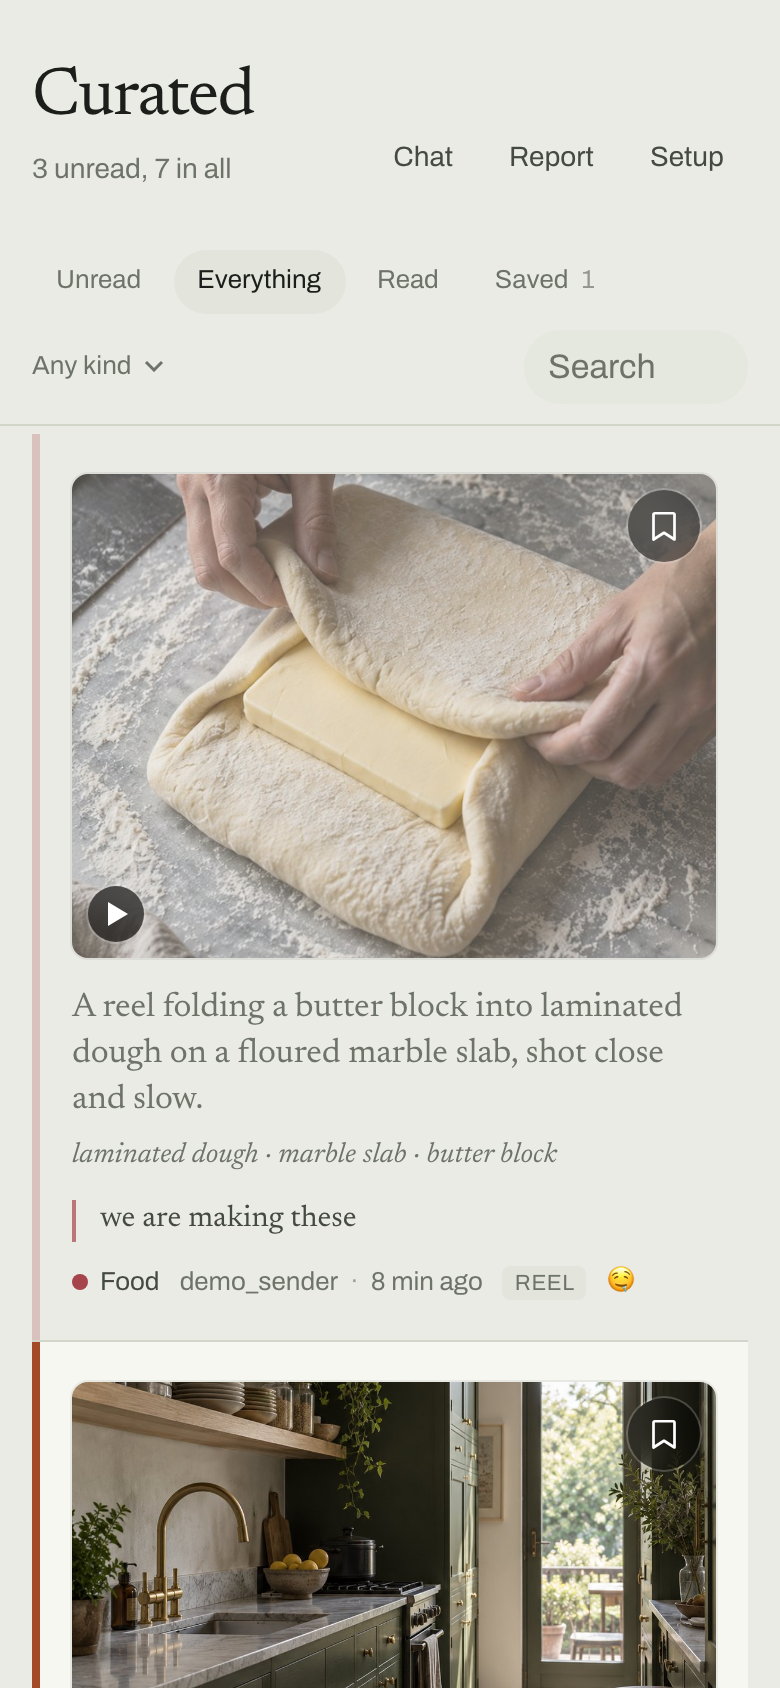
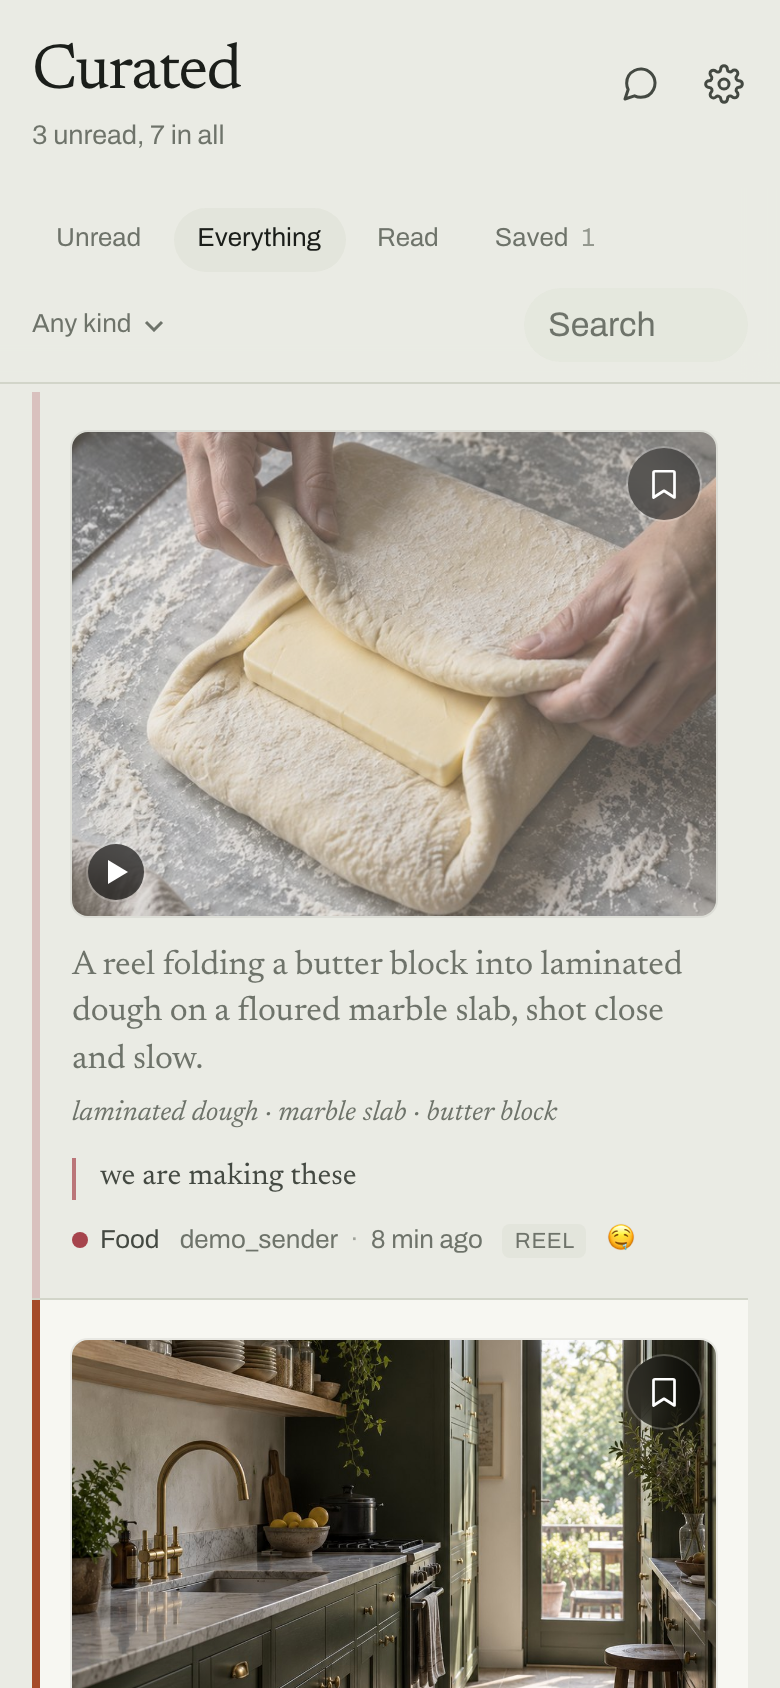
A header that fits a phone
Three words of links - Chat, Report, Setup - took a second row on a
phone and pushed the pile down. Chat is a thing you open often, so it is
a speech bubble. Report and Setup are once a week and once ever, so they
live behind a cog, in a small menu with a line under each saying what it
is for. Two round, thumb-sized buttons beside the name, on one row.

The menu uses the same open-and-dismiss mechanics as the topic filter:
tap away or press Escape to close, and it closes itself when you pick.

README screenshots refreshed.

🤖 Generated with [Claude Code](https://claude.com/claude-code)

diff --git a/src/components/Feed.tsx b/src/components/Feed.tsx
@@ -5,6 +5,8 @@ import Link from "next/link";
 import PostRow from "./PostRow";
 import PostPreview from "./PostPreview";
 import CategoryMenu from "./CategoryMenu";
+import HeaderMenu from "./HeaderMenu";
+import { ChatIcon } from "./icons";
 import type { PostView } from "@/lib/serialize";
 import type { SyncState } from "@/lib/sync";
 import { PHONE, useMediaQuery } from "@/lib/useMediaQuery";
@@ -292,10 +294,13 @@ export default function Feed() {
       {/* Nothing but the dark until the post is up. The list is behind it
           either way; showing it first only advertises the wait. */}
       {launching && !preview && <div className="fixed inset-0 z-50 bg-black md:hidden" />}
-      <header className="flex flex-wrap items-end justify-between gap-4 pt-8 pb-5 sm:pt-10 sm:pb-6">
-        <div>
-          <h1 className="font-serif text-[34px] leading-none tracking-tight sm:text-[40px]">Curated</h1>
-          <p className="mt-2 text-[14px] text-muted sm:text-[15px]">
+      {/* One row: the name, and two round buttons. What used to be three words
+          of links is a chat bubble and a cog, which is what a phone expects
+          and what leaves the name room to be the name. */}
+      <header className="flex items-start justify-between gap-4 pt-5 pb-4 sm:pt-8 sm:pb-5">
+        <div className="min-w-0">
+          <h1 className="font-serif text-[32px] leading-none tracking-tight sm:text-[40px]">Curated</h1>
+          <p className="mt-1.5 text-[13.5px] text-muted sm:mt-2 sm:text-[15px]">
             {headline(data, session)}
             {watcher?.listening && (
               <span className="ml-2 inline-flex items-center gap-1.5 text-accent">
@@ -306,20 +311,11 @@ export default function Feed() {
           </p>
         </div>
 
-        <nav className="flex items-center gap-1 text-[14px]" aria-label="Pages">
-          {[
-            ["/chat", "Chat"],
-            ["/report", "Report"],
-            ["/setup", "Setup"],
-          ].map(([href, label]) => (
-            <Link
-              key={href}
-              href={href}
-              className="rounded-full px-3 py-1.5 text-ink-soft transition-colors hover:bg-sunk hover:text-ink"
-            >
-              {label}
-            </Link>
-          ))}
+        <nav className="-mr-2 flex shrink-0 items-center gap-0.5 pt-0.5 sm:-mr-2.5" aria-label="Pages">
+          <Link href="/chat" aria-label="Chat" title="Chat" className={ICON_BUTTON}>
+            <ChatIcon />
+          </Link>
+          <HeaderMenu className={ICON_BUTTON} />
         </nav>
       </header>
 
@@ -432,6 +428,10 @@ export default function Feed() {
     </div>
   );
 }
+
+/** A round, thumb-sized target. Quiet until touched. */
+const ICON_BUTTON =
+  "flex h-10 w-10 items-center justify-center rounded-full text-ink-soft transition-colors hover:bg-sunk hover:text-ink active:bg-sunk";
 
 const LABELS: Record<StateFilter, string> = {
   unread: "Unread",

diff --git a/src/components/HeaderMenu.tsx b/src/components/HeaderMenu.tsx
@@ -1,0 +1,69 @@
+"use client";
+
+import { useEffect, useRef, useState } from "react";
+import Link from "next/link";
+import { GearIcon } from "./icons";
+
+/**
+ * The cog. Report and Setup are things you visit once a week and once ever,
+ * so they live behind one button rather than taking two words of the header
+ * on a phone. Same open-and-dismiss mechanics as the topic menu.
+ */
+export default function HeaderMenu({ className = "" }: { className?: string }) {
+  const [open, setOpen] = useState(false);
+  const root = useRef<HTMLDivElement>(null);
+
+  useEffect(() => {
+    if (!open) return;
+    const away = (event: PointerEvent) => {
+      if (!root.current?.contains(event.target as Node)) setOpen(false);
+    };
+    const escape = (event: KeyboardEvent) => {
+      if (event.key === "Escape") setOpen(false);
+    };
+    document.addEventListener("pointerdown", away);
+    document.addEventListener("keydown", escape);
+    return () => {
+      document.removeEventListener("pointerdown", away);
+      document.removeEventListener("keydown", escape);
+    };
+  }, [open]);
+
+  return (
+    <div ref={root} className="relative">
+      <button
+        type="button"
+        aria-label="More"
+        aria-haspopup="menu"
+        aria-expanded={open}
+        onClick={() => setOpen((state) => !state)}
+        className={`${className} ${open ? "bg-sunk text-ink" : ""}`}
+      >
+        <GearIcon />
+      </button>
+
+      {open && (
+        <div
+          role="menu"
+          className="absolute top-full right-0 z-20 mt-2 w-44 overflow-hidden rounded-xl bg-surface p-1.5 shadow-[0_12px_32px_-8px_rgba(0,0,0,0.25)] ring-1 ring-line"
+        >
+          {[
+            ["/report", "Report", "What arrives, and when"],
+            ["/setup", "Setup", "Sign in, and who to follow"],
+          ].map(([href, label, hint]) => (
+            <Link
+              key={href}
+              href={href}
+              role="menuitem"
+              onClick={() => setOpen(false)}
+              className="block rounded-lg px-3 py-2 transition-colors hover:bg-sunk"
+            >
+              <span className="block text-[14px] text-ink">{label}</span>
+              <span className="block text-[12px] text-muted">{hint}</span>
+            </Link>
+          ))}
+        </div>
+      )}
+    </div>
+  );
+}

diff --git a/src/components/icons.tsx b/src/components/icons.tsx
@@ -35,3 +35,42 @@ export function CloseIcon({ className }: { className?: string }) {
     </svg>
   );
 }
+
+export function ChatIcon({ className }: { className?: string }) {
+  return (
+    <svg
+      width="20"
+      height="20"
+      viewBox="0 0 24 24"
+      aria-hidden
+      className={className}
+      fill="none"
+      stroke="currentColor"
+      strokeWidth="1.8"
+      strokeLinecap="round"
+      strokeLinejoin="round"
+    >
+      <path d="M21 11.5a8.38 8.38 0 0 1-.9 3.8 8.5 8.5 0 0 1-7.6 4.7 8.38 8.38 0 0 1-3.8-.9L3 21l1.9-5.7a8.38 8.38 0 0 1-.9-3.8 8.5 8.5 0 0 1 4.7-7.6 8.38 8.38 0 0 1 3.8-.9h.5a8.48 8.48 0 0 1 8 8v.5z" />
+    </svg>
+  );
+}
+
+export function GearIcon({ className }: { className?: string }) {
+  return (
+    <svg
+      width="20"
+      height="20"
+      viewBox="0 0 24 24"
+      aria-hidden
+      className={className}
+      fill="none"
+      stroke="currentColor"
+      strokeWidth="1.8"
+      strokeLinecap="round"
+      strokeLinejoin="round"
+    >
+      <circle cx="12" cy="12" r="3" />
+      <path d="M19.4 15a1.65 1.65 0 0 0 .33 1.82l.06.06a2 2 0 0 1 0 2.83 2 2 0 0 1-2.83 0l-.06-.06a1.65 1.65 0 0 0-1.82-.33 1.65 1.65 0 0 0-1 1.51V21a2 2 0 0 1-2 2 2 2 0 0 1-2-2v-.09A1.65 1.65 0 0 0 9 19.4a1.65 1.65 0 0 0-1.82.33l-.06.06a2 2 0 0 1-2.83 0 2 2 0 0 1 0-2.83l.06-.06a1.65 1.65 0 0 0 .33-1.82 1.65 1.65 0 0 0-1.51-1H3a2 2 0 0 1-2-2 2 2 0 0 1 2-2h.09A1.65 1.65 0 0 0 4.6 9a1.65 1.65 0 0 0-.33-1.82l-.06-.06a2 2 0 0 1 0-2.83 2 2 0 0 1 2.83 0l.06.06a1.65 1.65 0 0 0 1.82.33H9a1.65 1.65 0 0 0 1-1.51V3a2 2 0 0 1 2-2 2 2 0 0 1 2 2v.09a1.65 1.65 0 0 0 1 1.51 1.65 1.65 0 0 0 1.82-.33l.06-.06a2 2 0 0 1 2.83 0 2 2 0 0 1 0 2.83l-.06.06a1.65 1.65 0 0 0-.33 1.82V9a1.65 1.65 0 0 0 1.51 1H21a2 2 0 0 1 2 2 2 2 0 0 1-2 2h-.09a1.65 1.65 0 0 0-1.51 1z" />
+    </svg>
+  );
+}
